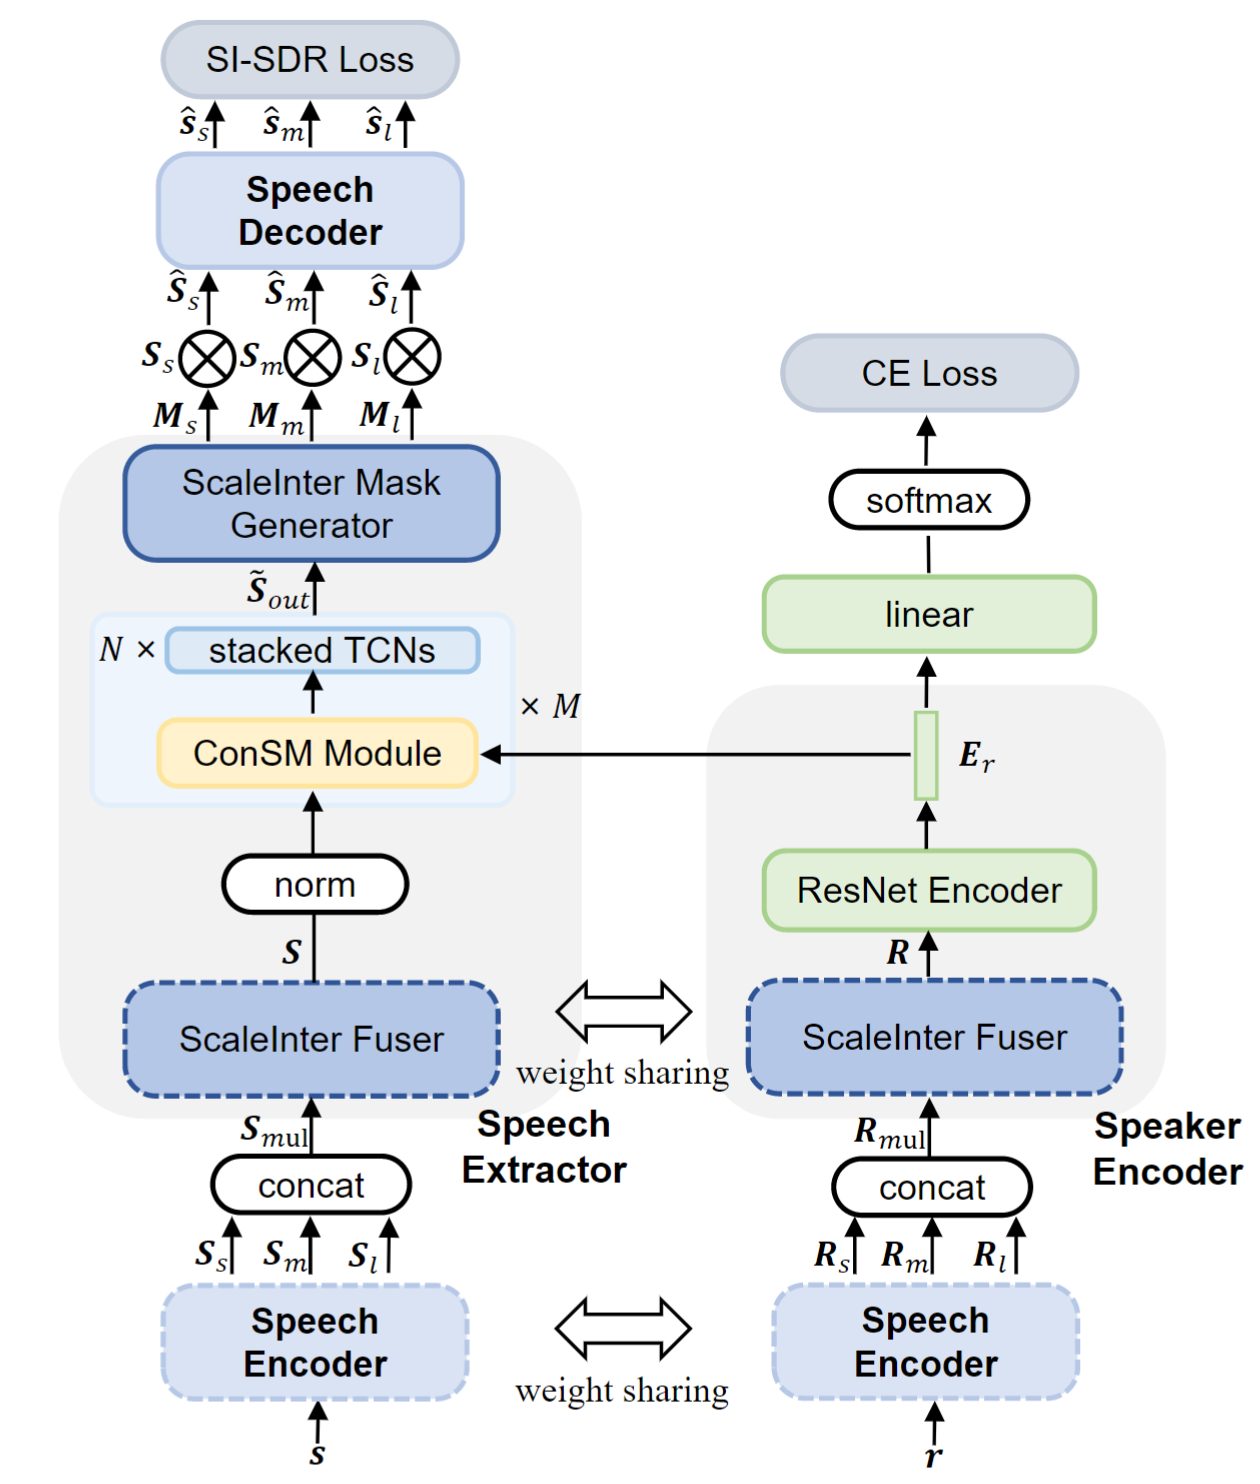
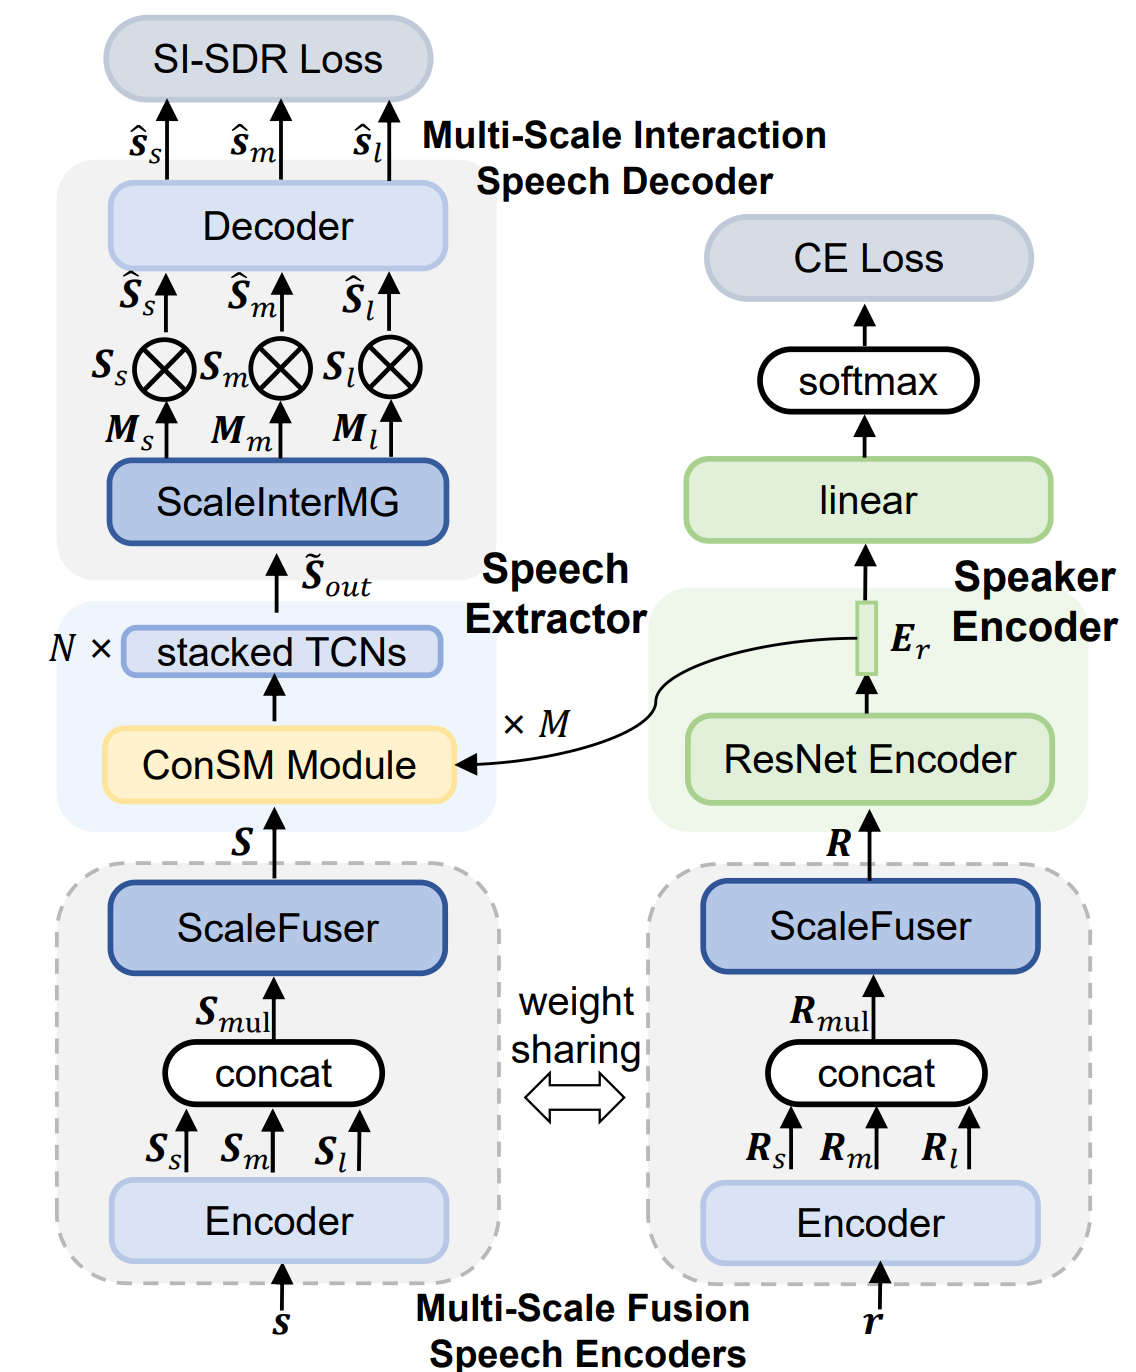
update demo page

diff --git a/index.md b/index.md
@@ -1,10 +1,11 @@
-# Z-SpEx: Zero-shot Speaker Extraction with Multi-scale Interaction and Effective Cross-subnet Combination
+# MC-SpEx: Towards Effective Speaker Extraction with Multi-Scale Interfusion and Conditional Speaker Modulation
 
-### *Jun Chen, Wei Rao, Zilin Wang, Jiuxin Lin, Zhiyong Wu, Yukai Ju, Yannan Wang, Shidong Shang, Helen Meng*
+### *Jun Chen, Wei Rao, Zilin Wang, Jiuxin Lin, Yukai Ju, Shulin He, Yannan Wang, Zhiyong Wu*
 
 <h2 id = "1">Abstract</h2>
 
-Zero-shot speaker extraction aims at efficiently extracting the speech signal of an unseen speaker with only one reference utterance of the speaker. In this paper, we propose an extended speaker extraction framework called Z-SpEx with superior zero-shot capability. First, we present a multi-scale interaction (ScaleInter) fuser in Speaker Encoder to interactively fuse multi-scale features so as to improve the generalizability. In the same way, to enable the Speech Extractor to acquire greater generalization capacity, the ScaleInter fuser and ScaleInter mask generator are introduced to it for the interaction among multi-scale information. Furthermore, for the effective cross-subnet combination between Speech Extractor and Speaker Encoder, we share the weights of the ScaleInter fusers in them, as well as design a conditional speaker modulation (ConSM) module to effectively modulate and combine the features of these two subnets. Experimental results on the Libri2Mix dataset show that Z-SpEx yields a significant performance in extracting the speech signal of the unseen speaker and outperforms other state-of-the-art speech extraction approaches, which demonstrate the effectiveness of our improvements.
+The previous SpEx+ has yielded outstanding performance in speaker extraction and attracted much attention. However, it still encounters inadequate utilization of multi-scale information and speaker embedding. To this end, this paper proposes a new effective speaker extraction system with multi-scale interfusion and conditional speaker modulation (ConSM), which is called MC-SpEx. First of all, we design the weight-share multi-scale fusers (ScaleFusers) for efficiently leveraging multi-scale information as well as ensuring consistency of the model's feature space. Then, to consider different scale information while generating masks, the multi-scale interactive mask generator (ScaleInterMG) is presented. Moreover, we introduce ConSM module to fully exploit speaker embedding in the speech extractor. Experimental results on the Libri2Mix dataset demonstrate the effectiveness of our improvements and the state-of-the-art performance of our proposed MC-SpEx.
+
 
 <center>
     <script src="https://polyfill.io/v3/polyfill.min.js?features=es6"></script>
@@ -14,32 +15,15 @@ Zero-shot speaker extraction aims at efficiently extracting the speech signal of
     <img style="zoom: 55%; " 
     src="./data/fig/total_arch_new.jpg">
     <br>
-    <div class="caption" style="max-width: 600px;"> Fig.1: The overall diagram of the Z-SpEx. The dotted border represents the module with shared weights. The "\(\otimes\)" means element-wise multiplication. The “SI-SDR Loss" and ”CE Loss" refer to the scale-invariant signal-to-distortion ratio loss and cross-entropy loss in multi-task learning.
+    <div class="caption" style="max-width: 600px;"> Fig.1: The overall diagram of the MC-SpEx. The dotted border represents the module with shared weights. The "\(\otimes\)" means element-wise multiplication. The “SI-SDR Loss" and ”CE Loss" refer to the scale-invariant signal-to-distortion ratio loss and cross-entropy loss in multi-task learning.
     </div>
 </center>
 
 
 
-
-
-## Speaker Visualization
-
-For a more intuitive comparison, we visualized the speech of seen and unseen speakers extracted by SpEx+ and Z-SpEx respectively.  The speech extracted by the model is passed through the Speaker Encoder of the corresponding model to obtain the speaker embedding, which is then visualized by the t-SNE algorithm.  For each case, we prepared 6 speakers with 30 extracted speech for every speaker. All the cases are visualized at the same coordinate scale.
-
-|                speaker visualization by t-SNE                |                                                              |
-| :----------------------------------------------------------: | :----------------------------------------------------------: |
-|                  **SpEx+ (seen speakers)**                   |                  **Z-SpEx (seen speakers)**                  |
-| <img src="./data/tsne/seen_of_spex+.jpg" alt="SpEx+ (seen speakers)" style="zoom: 60%;" /> | <img src="./data/tsne/seen_of_proposal.jpg" alt="Z-SpEx (seen speakers)" style="zoom: 60%;" /> |
-|                 **SpEx+ (unseen speakers)**                  |                 **Z-SpEx (unseen speakers)**                 |
-| <img src="./data/tsne/unseen_of_spex+.jpg" alt="SpEx+ (unseen speakers)" style="zoom: 60%;" /> | <img src="./data/tsne/unseen_of_proposal.jpg" alt="Z-SpEx (seen speakers)" style="zoom: 60%;" /> |
-
-
-
-
-
 ## Cases
 
-We compare the performance of our proposed Z-SpEx and SpEx on Libri2Mix test set. In this test set, **all the speakers are unseen**. The cases are divided into "different gender" and "same gender", where "same gender" is further classified as "female mixed with female" and "male mixed with male".
+We compare the performance of our proposed MC-SpEx and SpEx on Libri2Mix test set. In this test set. The cases are divided into **"different gender"** and **"same gender"**, where "same gender" is further classified as **"female mixed with female"** and **"male mixed with male"**.
 
 <h3 id = "3">Different Gender</h3>
 
@@ -49,7 +33,7 @@ We compare the performance of our proposed Z-SpEx and SpEx on Libri2Mix test set
 | :----------------------------------------------------------: | :----------------------------------------------------------: |
 | **Mixture** <br><audio controls><source src="./data/diff_gen/case1/mix.wav" type="audio/wav" >Your browser does not support the audio element.</audio> | **SpEx+** <br>  <audio controls><source src="./data/diff_gen/case1/spex_plus.wav" type="audio/wav">Your browser does not support the audio element.</audio> |
 | <img src="./data/diff_gen/case1/mix.jpg" alt="mixture" width="100%"/> | <img src="./data/diff_gen/case1/spex_plus.jpg" alt="baseline" width="100%"/> |
-| **Z-SpEx**<br>  <audio controls><source src="./data/diff_gen/case1/ours.wav" type="audio/wav">Your browser does not support the audio element.</audio> | **Ground truth** <br> <audio controls><source src="./data/diff_gen/case1/gt.wav" type="audio/wav">Your browser does not support the audio element.</audio> |
+| **MC-SpEx**<br>  <audio controls><source src="./data/diff_gen/case1/ours.wav" type="audio/wav">Your browser does not support the audio element.</audio> | **Ground truth** <br> <audio controls><source src="./data/diff_gen/case1/gt.wav" type="audio/wav">Your browser does not support the audio element.</audio> |
 | <img src="./data/diff_gen/case1/ours.jpg" alt="proposed" width="100%" /> | <img src="./data/diff_gen/case1/gt.jpg" alt="ground truth" width="100%"/> |
 
 
@@ -60,7 +44,7 @@ We compare the performance of our proposed Z-SpEx and SpEx on Libri2Mix test set
 | :----------------------------------------------------------: | :----------------------------------------------------------: |
 | **Mixture** <br><audio controls><source src="./data/diff_gen/case2/mix.wav" type="audio/wav">Your browser does not support the audio element.</audio> | **SpEx+** <br>  <audio controls><source src="./data/diff_gen/case2/spex_plus.wav" type="audio/wav">Your browser does not support the audio element.</audio> |
 | <img src="./data/diff_gen/case2/mix.jpg" alt="mixture" width="100%" /> | <img src="./data/diff_gen/case2/spex_plus.jpg" alt="baseline" width="100%" /> |
-| **Z-SpEx**<br>  <audio controls><source src="./data/diff_gen/case2/ours.wav" type="audio/wav">Your browser does not support the audio element.</audio> | **Ground truth** <br> <audio controls><source src="./data/diff_gen/case2/gt.wav" type="audio/wav">Your browser does not support the audio element.</audio> |
+| **MC-SpEx**<br>  <audio controls><source src="./data/diff_gen/case2/ours.wav" type="audio/wav">Your browser does not support the audio element.</audio> | **Ground truth** <br> <audio controls><source src="./data/diff_gen/case2/gt.wav" type="audio/wav">Your browser does not support the audio element.</audio> |
 | <img src="./data/diff_gen/case2/ours.jpg" alt="proposed" width="100%" /> | <img src="./data/diff_gen/case2/gt.jpg" alt="ground truth" width="100%" /> |
 
 
@@ -73,7 +57,7 @@ We compare the performance of our proposed Z-SpEx and SpEx on Libri2Mix test set
 | :----------------------------------------------------------: | :----------------------------------------------------------: |
 | **Mixture**  <br/><audio controls><source src="./data/same_gen/female_female/mix.wav" type="audio/wav">Your browser does not support the audio element.</audio> | **SpEx+**   <br/><audio controls><source src="./data/same_gen/female_female/spex_plus.wav" type="audio/wav">Your browser does not support the audio element.</audio> |
 | <img src="./data/same_gen/female_female/mix.jpg" alt="mixture" width="100%" /> | <img src="./data/same_gen/female_female/spex_plus.jpg" alt="baseline" width="100%" /> |
-| **Z-SpEx**  <br/><audio controls><source src="./data/same_gen/female_female/ours.wav" type="audio/wav">Your browser does not support the audio element.</audio> | **Ground truth**  <br/><audio controls><source src="./data/same_gen/female_female/gt.wav" type="audio/wav">Your browser does not support the audio element.</audio> |
+| **MC-SpEx**  <br/><audio controls><source src="./data/same_gen/female_female/ours.wav" type="audio/wav">Your browser does not support the audio element.</audio> | **Ground truth**  <br/><audio controls><source src="./data/same_gen/female_female/gt.wav" type="audio/wav">Your browser does not support the audio element.</audio> |
 | <img src="./data/same_gen/female_female/ours.jpg" alt="proposed" width="100%" /> | <img src="./data/same_gen/female_female/gt.jpg" alt="ground truth" width="100%" /> |
 
 
@@ -84,5 +68,5 @@ We compare the performance of our proposed Z-SpEx and SpEx on Libri2Mix test set
 | :----------------------------------------------------------: | :----------------------------------------------------------: |
 | **Mixture**  <br/><audio controls><source src="./data/same_gen/male_male/mix.wav" type="audio/wav">Your browser does not support the audio element.</audio> | **SpEx+**   <br/><audio controls><source src="./data/same_gen/male_male/spex_plus.wav" type="audio/wav">Your browser does not support the audio element.</audio> |
 | <img src="./data/same_gen/male_male/mix.jpg" alt="mixture" width="100%" /> | <img src="./data/same_gen/male_male/spex_plus.jpg" alt="baseline" width="100%" /> |
-| **Z-SpEx**  <br/><audio controls><source src="./data/same_gen/male_male/ours.wav" type="audio/wav">Your browser does not support the audio element.</audio> | **Ground truth**  <br/><audio controls><source src="./data/same_gen/male_male/gt.wav" type="audio/wav">Your browser does not support the audio element.</audio> |
+| **MC-SpEx**  <br/><audio controls><source src="./data/same_gen/male_male/ours.wav" type="audio/wav">Your browser does not support the audio element.</audio> | **Ground truth**  <br/><audio controls><source src="./data/same_gen/male_male/gt.wav" type="audio/wav">Your browser does not support the audio element.</audio> |
 | <img src="./data/same_gen/male_male/ours.jpg" alt="proposed" width="100%" /> | <img src="./data/same_gen/male_male/gt.jpg" alt="ground truth" width="100%" /> |
